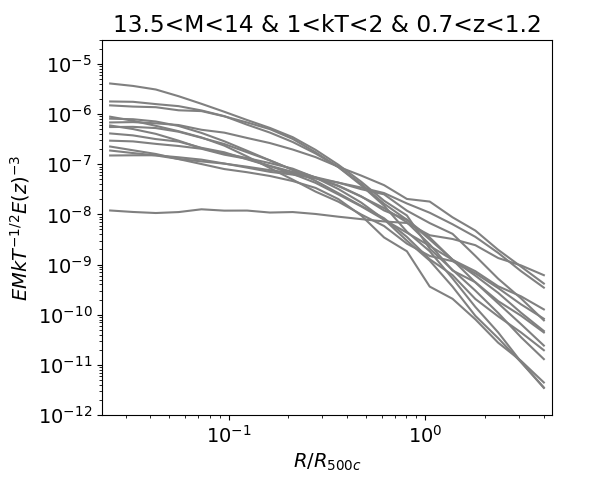
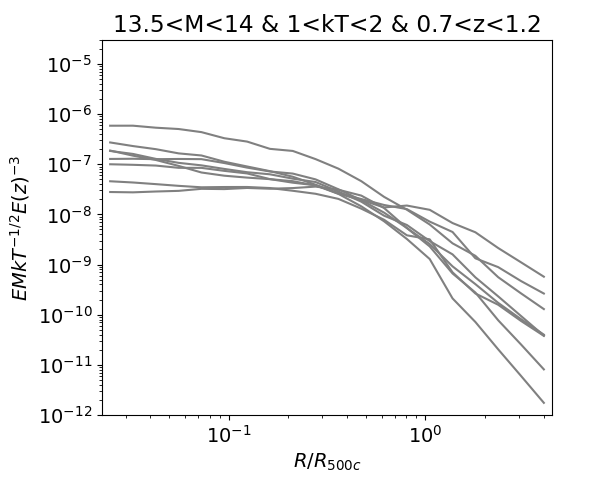
scatter vs radius

Changed region(s): [[0.18, 0.15, 0.93, 0.81], [0.18, 0.42, 0.33, 0.45]]

diff --git a/python/plot_profiles.py b/python/plot_profiles.py
@@ -17,6 +17,7 @@ from scipy.interpolate import interp1d
 from astropy_healpix import healpy
 import astropy.io.fits as fits
 import numpy as n
+from scipy.stats import scoreatpercentile
 print('Plots the covariance matrix')
 print('------------------------------------------------')
 print('------------------------------------------------')
@@ -26,6 +27,10 @@ t0 = time.time()
 # import all pathes
 
 fig_dir = os.path.join( '/home/comparat/software/cluster-brightness-profiles', 'figures')
+
+pressure_x, pressure_sig_low, pressure_sig_high = n.loadtxt(os.path.join(fig_dir, 'ghirardini_2018_Fig7_pressure.txt'), unpack = True)
+entropy_x, entropy_sig_low, entropy_sig_high = n.loadtxt(os.path.join(fig_dir, 'ghirardini_2018_Fig7_entropy.txt'), unpack = True)
+density_x, density_sig_low, density_sig_high = n.loadtxt(os.path.join(fig_dir, 'ghirardini_2018_Fig7_density.txt'), unpack = True)
 
 path_2_cbp = os.path.join(os.environ['GIT_CBP'])
 N_clu = 1000
@@ -43,51 +48,7 @@ coolfunc=n.loadtxt(os.path.join(path_2_cbp, 'coolfunc.dat'))
 allz_i  = covor[:,len(mean_log)-3]
 allm5_i = covor[:,len(mean_log)-2]
 allkt_i = covor[:,len(mean_log)-1]
-
-X,Y=n.meshgrid(xgrid_ext,xgrid_ext)
-p.figure(0, (6,5))
-p.axes([0.17,0.17,0.75,0.75])
-p.scatter(X, Y, s=185, c=n.flip(covor[:20,:20]),marker='s',vmin=-0.5, vmax=2.5)
-p.colorbar(label='covariance')
-p.xscale('log')
-p.yscale('log')
-p.xlim((xgrid_ext.min()/1.1, xgrid_ext.max()*1.1))
-p.ylim((xgrid_ext.min()/1.1, xgrid_ext.max()*1.1))
-p.xlabel(r'$R/R_{500c}$')
-p.ylabel(r'$R/R_{500c}$')
-p.savefig(os.path.join(fig_dir, 'cov_mat_radii.png'))
-p.clf()
-
-FS = 11
-p.figure(0, (6,5))
-p.imshow(n.flip(covor, axis=1),vmin=-0.5, vmax=2.5)
-p.text(-0.7 , -1.5,'kT', rotation=90, fontsize=FS)#, color='white')
-p.text( 0.5 , -1.5,r'$M_{500c}$', rotation=90, fontsize=FS) #, color='white'
-p.text( 1.5 , -1.5,r'$z$', rotation=90, fontsize=FS)#, color='white')
-
-for jj in n.arange(len(xgrid_ext))[::3]:
-	p.text( 2.5+jj , -1.5, str(n.round(xgrid_ext[jj],3)), fontsize=FS, rotation=90)
-
-for jj in n.arange(len(xgrid_ext))[::3]:
-	p.text( -3.5, 19.5 -jj , str(n.round(xgrid_ext[jj],3)), fontsize=FS)
-
-p.text( -3, 22.5 ,'kT', fontsize=FS)#, color='white')
-p.text( -3, 21.5 ,r'$M_{500c}$', fontsize=FS) #, color='white'
-p.text( -3, 20.5 ,r'$z$', fontsize=FS)#, color='white')
-
-p.text(-0.7 , 24,'kT', rotation=90, fontsize=FS)#, color='white')
-p.text( 0.5 , 25,r'$M_{500c}$', rotation=90, fontsize=FS) #, color='white'
-p.text( 1.5 , 24,r'$z$', rotation=90, fontsize=FS)#, color='white')
-p.text( 11  , 24,r'$R/R_{500c}$', fontsize=14)
-
-p.xticks([])
-p.yticks([])
-p.colorbar(label='covariance')
-p.savefig(os.path.join(fig_dir, 'cov_mat.png'))
-p.clf()
-
 nsim = 1000
-
 
 def calc_lx(prof,kt,m5,z):
 	"""
@@ -134,6 +95,90 @@ cosmoMD = FlatLambdaCDM(
 h = 0.6777
 L_box = 1000.0 / h
 cosmo = cosmoMD
+
+allz     = allz_i    
+allkt    = allkt_i   
+allm5    = allm5_i   
+profiles = profiles_i
+nsim2 = len(allz)
+prf_vals = n.zeros((nsim2,len(xgrid_ext)))
+
+name='all'
+
+p.figure(0, (6,5))
+p.axes([0.17,0.17,0.75,0.75])
+for jj in n.arange(nsim2):
+	prf = profiles[jj]
+	ez2 = cosmo.efunc(allz[jj])**2
+	resfact = n.sqrt(allkt[jj])*n.power(ez2,3./2.)
+	p.plot(xgrid_ext, prf/resfact, color='grey')
+
+#p.colorbar(label='covariance')
+p.xscale('log')
+p.yscale('log')
+p.xlim((xgrid_ext.min()/1.1, xgrid_ext.max()*1.1))
+p.ylim((1e-12, 3e-5))
+p.xlabel(r'$R/R_{500c}$')
+p.ylabel(r'$EM kT^{-1/2} E(z)^{-3}$')
+p.title(name)
+p.savefig(os.path.join(fig_dir, 'profiles_'+name+'.png'))
+p.clf()
+
+p.figure(0, (6,5))
+p.axes([0.17,0.17,0.75,0.75])
+for jj in n.arange(nsim2):
+	prf = profiles[jj]
+	ez2 = cosmo.efunc(allz[jj])**2
+	resfact = n.sqrt(allkt[jj])*n.power(ez2,3./2.)
+	prf_vals[jj] = prf/resfact
+
+for pprr in prf_vals:
+	p.plot(xgrid_ext, n.log10( pprr/n.mean(prf_vals,axis=0)), color='grey', alpha=0.2)
+
+#p.colorbar(label='covariance')
+p.xscale('log')
+#p.yscale('log')
+p.xlim((xgrid_ext.min()/1.1, xgrid_ext.max()*1.1))
+p.ylim((-2, 2))
+p.xlabel(r'$R/R_{500c}$')
+p.ylabel(r'$\log_{10}(EM kT^{-1/2} E(z)^{-3}$/(mean profile))')
+p.title(name)
+p.savefig(os.path.join(fig_dir, 'profiles_div_mean_'+name+'.png'))
+p.clf()
+
+
+normed_profile = n.log10(prf_vals/n.mean(prf_vals,axis=0))
+pcs = n.array([5, 32, 50, 68, 95])
+pc_vals = scoreatpercentile(normed_profile**2, pcs , axis = 0 )**0.5
+
+p.figure(0, (6,5))
+p.axes([0.17,0.17,0.75,0.75])
+#p.fill_between(xgrid_ext, y1 = pc_vals[0], y2 = pc_vals[-1], color='blue', alpha=0.2, label=r'Prf 2$\sigma$')
+p.fill_between(xgrid_ext, y1 = pc_vals[1], y2 = pc_vals[-2], color='blue', alpha=0.3, label=r'Prf 1$\sigma$')
+p.plot(xgrid_ext, pc_vals[2], color='blue', ls='dashed')
+# Ghirardini
+p.fill_between(pressure_x, y1 = pressure_sig_low, y2 = pressure_sig_high, color='g', alpha=0.4, label='Gh20 P')
+p.fill_between(entropy_x, y1 = entropy_sig_low, y2 = entropy_sig_high, color='k', alpha=0.4, label='Gh20 E')
+p.fill_between(density_x, y1 = density_sig_low, y2 = density_sig_high, color='r', alpha=0.4, label='Gh20 D')
+p.xscale('log')
+#p.yscale('log')
+p.xlim((xgrid_ext.min()/1.1, xgrid_ext.max()*1.1))
+p.legend(loc=0)
+p.grid()
+#p.ylim((1e-12, 3e-5))
+p.xlabel(r'$R/R_{500c}$')
+p.ylabel('intrinsic scatter')#r'$\sigma(\log_{10}(EM kT^{-1/2} E(z)^{-3}$/(mean profile)))')
+p.title(name)
+p.savefig(os.path.join(fig_dir, 'profiles_std_'+name+'.png'))
+p.clf()
+
+
+
+
+
+
+
+sys.exit()
 
 m_low = (n.log10(allm5_i)>=13.5) & (n.log10(allm5_i)<14.0)
 m_mid = (n.log10(allm5_i)>=14.0) & (n.log10(allm5_i)<14.5)
@@ -220,6 +265,7 @@ for in_zbin, name in zip(selections, selection_names):
 	allm5    = allm5_i   [in_zbin]
 	profiles = profiles_i[in_zbin]
 	nsim2 = len(allz)
+	prf_vals = n.zeros((nsim2,len(xgrid_ext)))
 	if nsim2>0:
 		p.figure(0, (6,5))
 		p.axes([0.17,0.17,0.75,0.75])
@@ -238,4 +284,25 @@ for in_zbin, name in zip(selections, selection_names):
 		p.ylabel(r'$EM kT^{-1/2} E(z)^{-3}$')
 		p.title(name)
 		p.savefig(os.path.join(fig_dir, 'profiles_'+name+'.png'))
+		p.clf()
+
+		p.figure(0, (6,5))
+		p.axes([0.17,0.17,0.75,0.75])
+		for jj in n.arange(nsim2):
+			prf = profiles[jj]
+			ez2 = cosmo.efunc(allz[jj])**2
+			resfact = n.sqrt(allkt[jj])*n.power(ez2,3./2.)
+			prf_vals[jj] = prf/resfact
+		
+		p.plot(xgrid_ext, n.std(prf_vals, axis=0), color='grey')
+
+		#p.colorbar(label='covariance')
+		p.xscale('log')
+		p.yscale('log')
+		p.xlim((xgrid_ext.min()/1.1, xgrid_ext.max()*1.1))
+		p.ylim((1e-12, 3e-5))
+		p.xlabel(r'$R/R_{500c}$')
+		p.ylabel(r'$EM kT^{-1/2} E(z)^{-3}$')
+		p.title(name)
+		p.savefig(os.path.join(fig_dir, 'profiles_scatter_'+name+'.png'))
 		p.clf()
